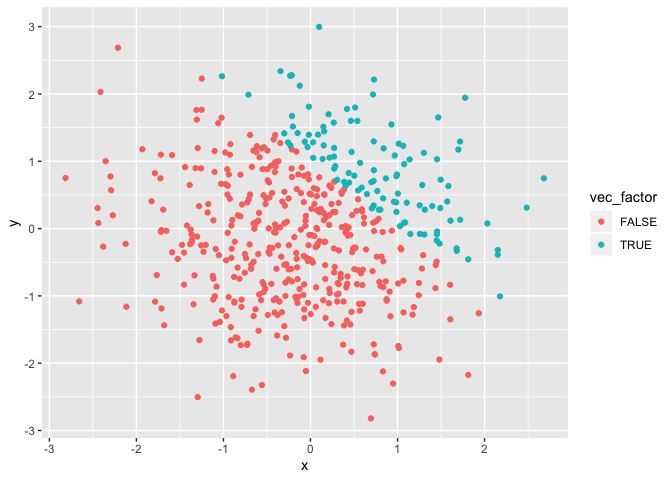
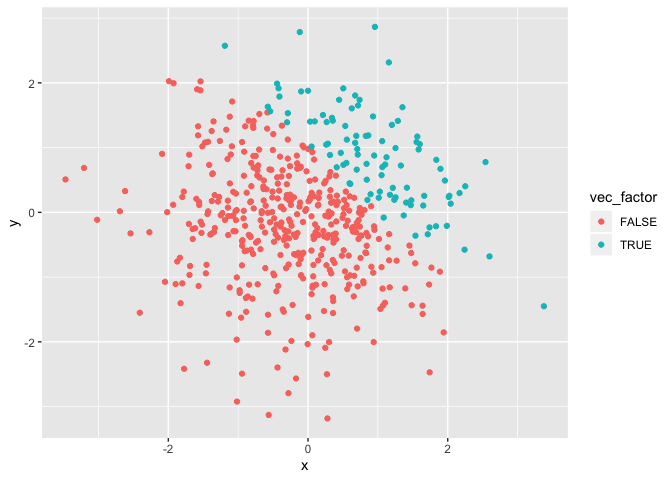
Final header formatting

diff --git a/p8105_hw1_sm4594.md b/p8105_hw1_sm4594.md
@@ -47,13 +47,13 @@ problem1_df = tibble(
 mean(pull(problem1_df, norm_samp))
 ```
 
-    ## [1] 0.1890514
+    ## [1] -0.2633497
 
 ``` r
 mean(pull(problem1_df, norm_samp_pos))
 ```
 
-    ## [1] 0.75
+    ## [1] 0.25
 
 ``` r
 mean(pull(problem1_df, vec_char))
@@ -147,11 +147,11 @@ problem2_df = tibble(
 ```
 
 *There are 500 rows and 5 columns in the dataset. The mean, median, and
-standard deviation of x are -0.0674565, -0.0510718 and 0.9260709,
+standard deviation of x are -0.0880658, -0.0991335 and 1.0149654,
 respectively. The proportion of cases for which x + y \> 1 is
-0.216.*
+0.19.*
 
-## Making a scatterplot of y vs. x; color points using logical variable
+## Making a scatterplot of y vs. x; color points using logical variable:
 
 ``` r
 ggplot(problem2_df, aes(x = x, y = y, color = vec_logical)) + geom_point()
@@ -167,7 +167,7 @@ ggsave("problem2_df.pdf")
 
     ## Saving 7 x 5 in image
 
-## Making a scatterplot of y vs. x; color points using numeric variable
+## Making a scatterplot of y vs. x; color points using numeric variable:
 
 ``` r
 ggplot(problem2_df, aes(x = x, y = y, color = vec_numeric)) + geom_point()
@@ -175,7 +175,7 @@ ggplot(problem2_df, aes(x = x, y = y, color = vec_numeric)) + geom_point()
 
 ![](p8105_hw1_sm4594_files/figure-gfm/plot_2-1.png)<!-- -->
 
-## Making a scatterplot of y vs. x; color points using factor variable
+## Making a scatterplot of y vs. x; color points using factor variable:
 
 ``` r
 ggplot(problem2_df, aes(x = x, y = y, color = vec_factor)) + geom_point()
